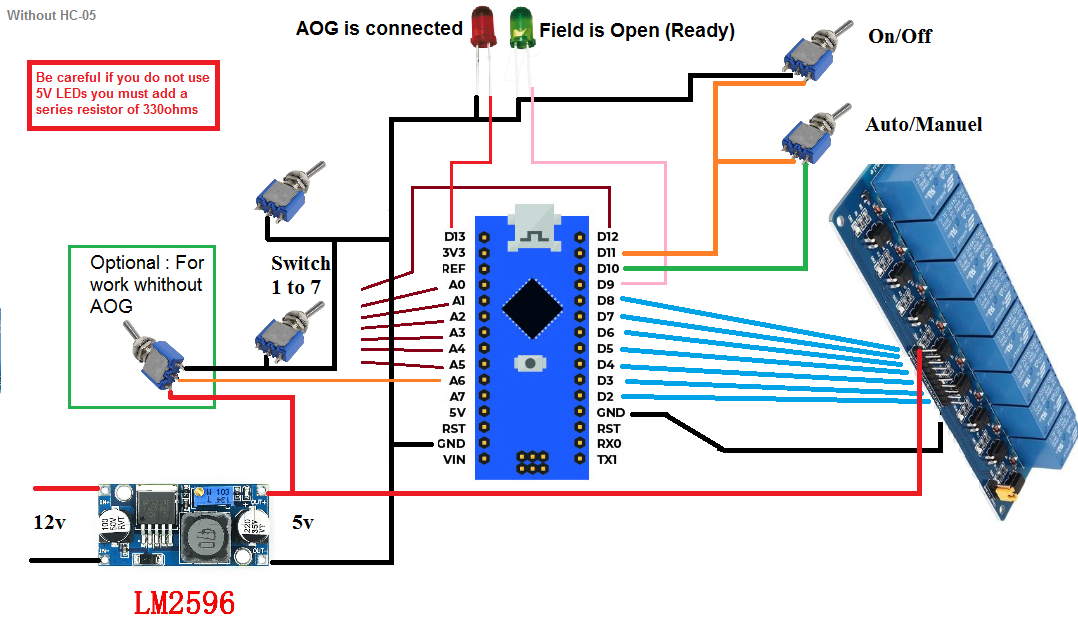
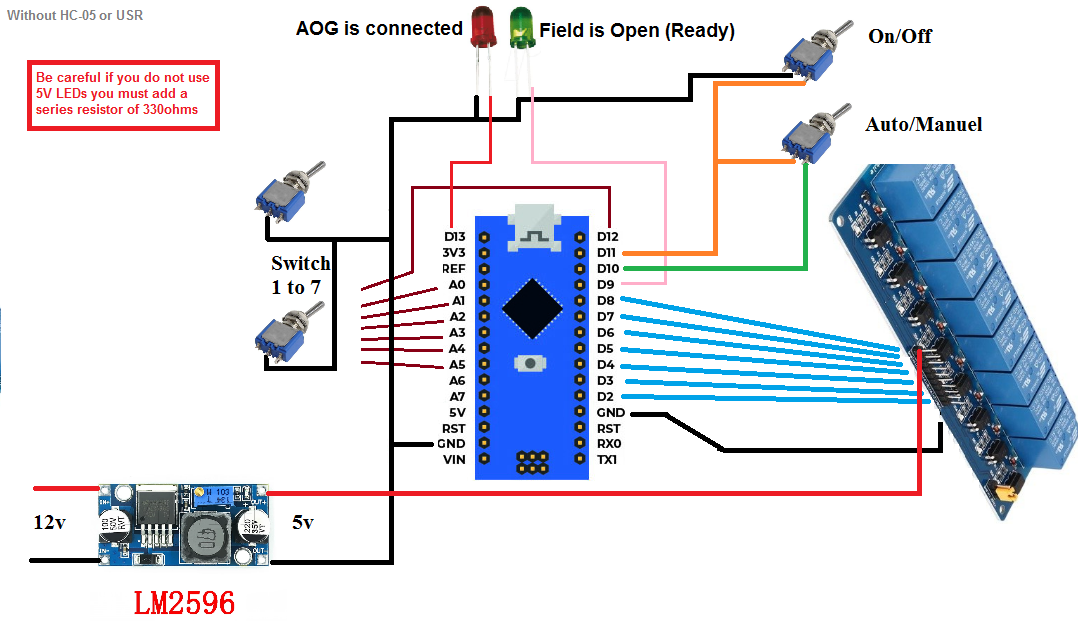
Manuel without AOG Fixed
The function has been completely redesigned

Changed region(s): [[0.0612, 0.3671, 0.398, 0.7955], [0.0918, 0.0, 0.1531, 0.0306]]

diff --git a/SectionControlAOG/README.md b/SectionControlAOG/README.md
@@ -2,9 +2,13 @@
 
 Section control by external box for AgOpenGPS. Fairly simple code designed to work with switches.
 
-To use the box without connection to AOG you can add a switch as shown in the diagram and uncomment this line:
-//#define WORK_WITHOUT_AOG //Allows to use the box without aog connected (optional)
+To use the box without connecting to AOG:
+_You must set all the section switches to off
+_You must activate the main switch on Manual
+_Start or restart the box
 
+for a few seconds the (green) ready LED flashes. once the led is fixed you can use your box normally without AOG.
+Any error in the startup procedure or an incoming AOG connection immediately cancels this mode.
 # Hardware USB
 
 Be careful if you do not use 5V LEDs you must add a series resistor of 330ohms!

diff --git a/README.md b/README.md
@@ -2,9 +2,6 @@
 
 Section control by external box for AgOpenGPS. Fairly simple code designed to work with switches.
 
-To use the box without connection to AOG you can add a switch as shown in the diagram and uncomment this line:
-//#define WORK_WITHOUT_AOG //Allows to use the box without aog connected (optional)
-
 # Hardware
 
 In the directory you will find the different sets if you want a USB, Bluetooth or Ethernet connection. The code is the same for all connection modes, only the modules change.
